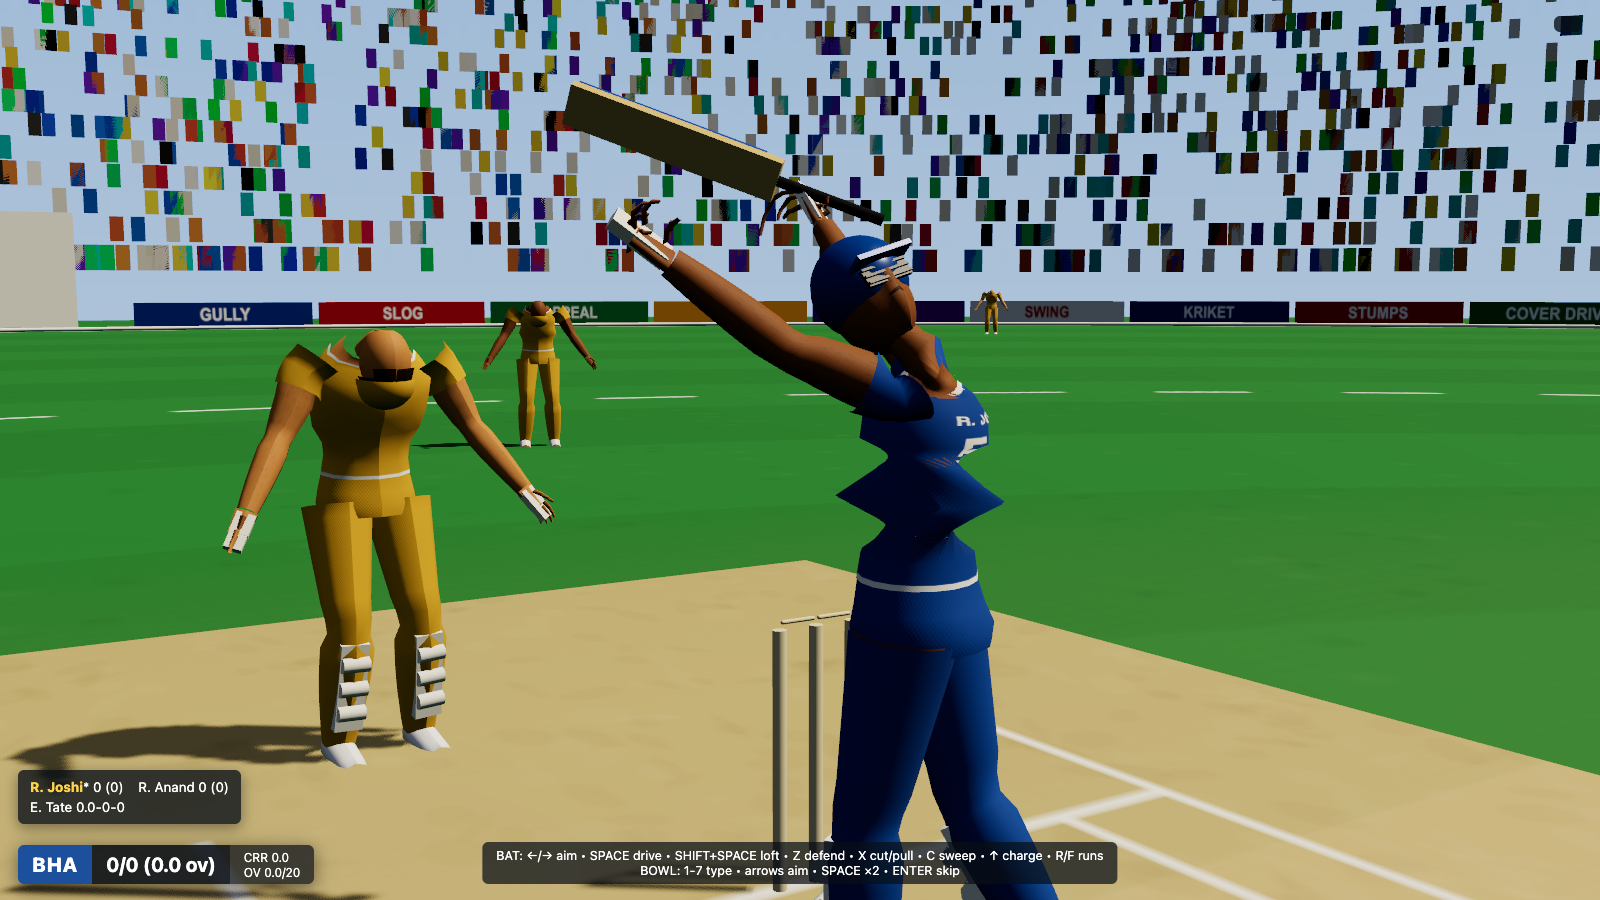
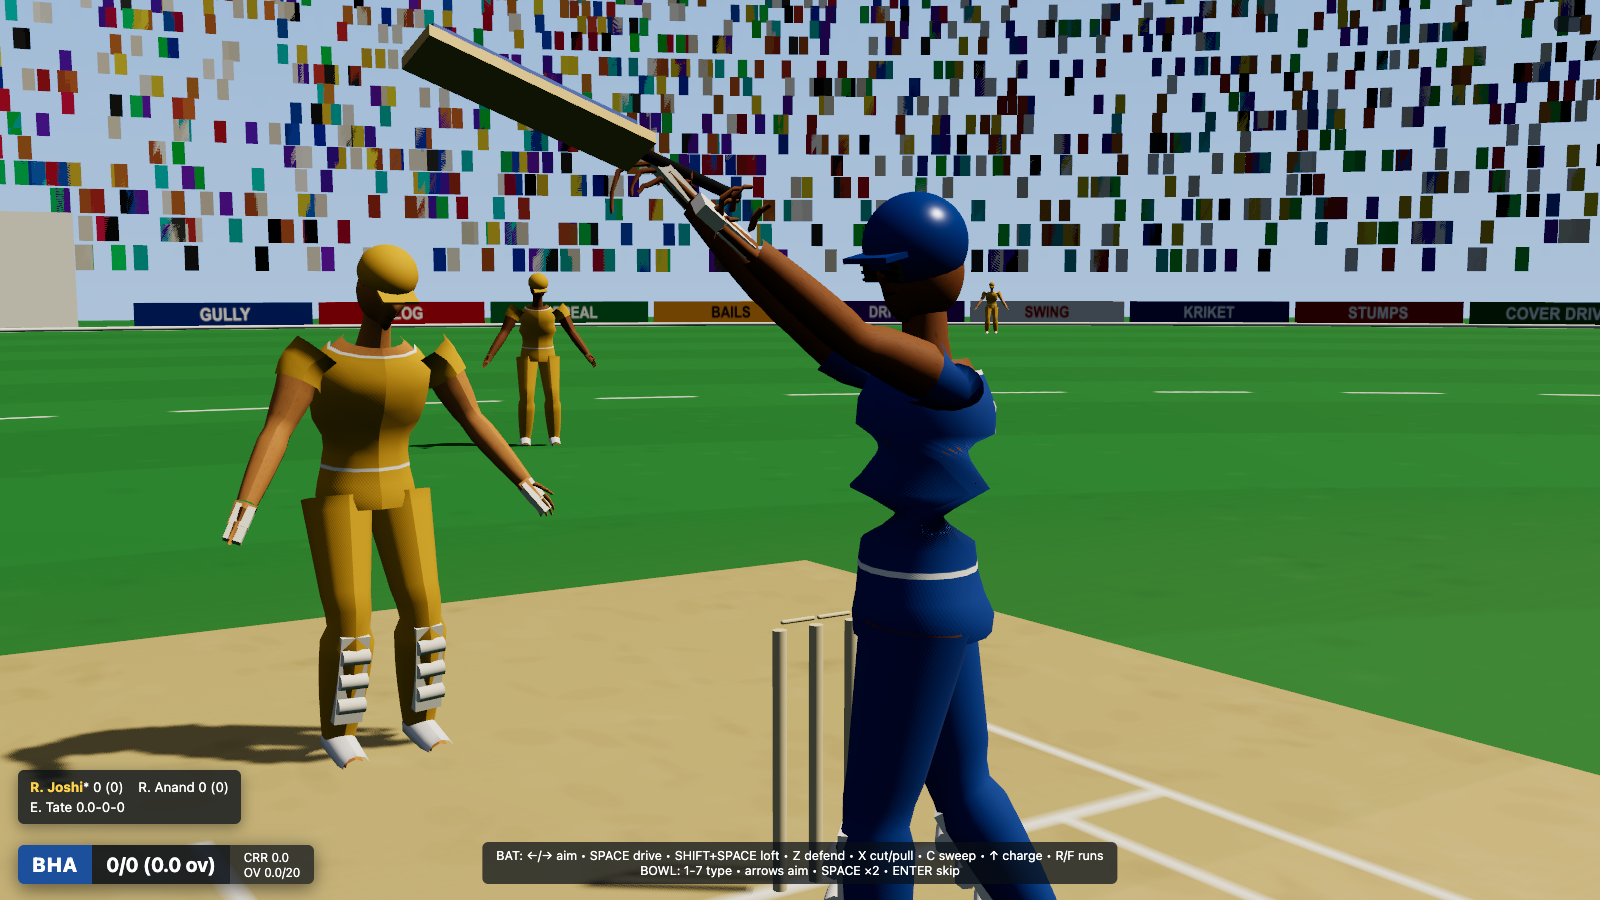
Fix head flipping (mesh/bone name collision + lookAt accumulation + dead-ball gating) and foot floating (per-rig clip resolution, bidirectional ground align)

diff --git a/src/gameplay/MatchController.ts b/src/gameplay/MatchController.ts
@@ -663,8 +663,13 @@ export class MatchController {
     if (this.paused) return;
     const inn = this.match.current();
 
-    // HumanKit: per-frame animation update + ball head-tracking
-    const ballPos = this.ballPosition();
+    // HumanKit: per-frame animation update + ball head-tracking.
+    // Track only when the ball is genuinely LIVE (a real delivery in motion);
+    // parked/dead balls (mesh parked at origin) must never drag heads around.
+    const dp = this.delivery?.phase;
+    const livePhase = dp === 'runup' || dp === 'action' || dp === 'flight' || dp === 'inplay';
+    const live = (this.phase === 'delivering' && livePhase) || this.phase === 'replay';
+    const ballPos = live ? this.ballPosition() : null;
     for (const h of this.humanEnts) {
       h.trackBall(ballPos);
       h.update(dt);
